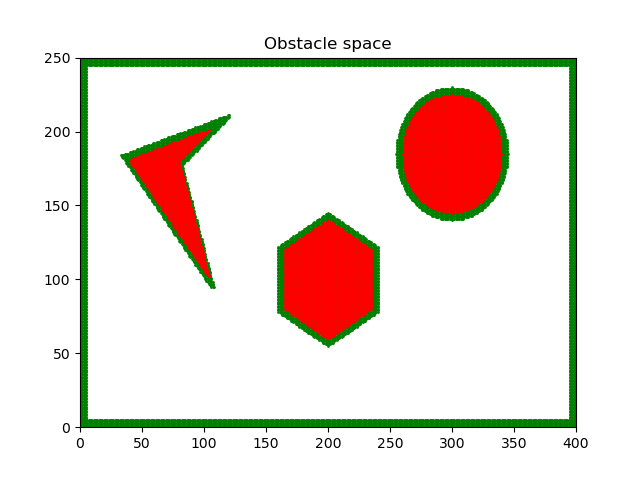
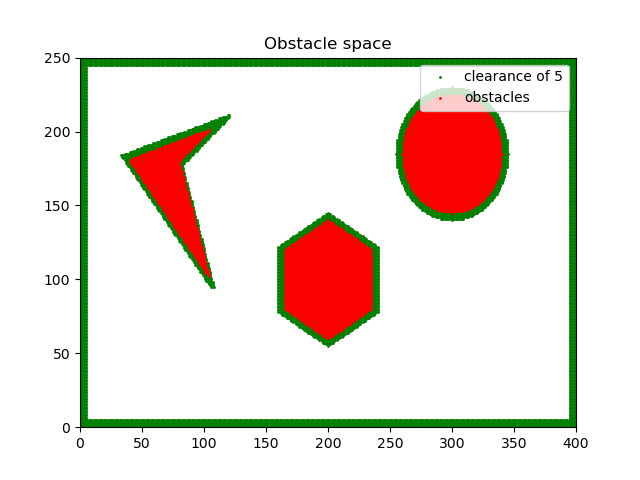
latest commit

Changed region(s): [[0.6562, 0.125, 0.9062, 0.25]]

diff --git a/Dijkstra-pathplanning-Saurabh-Palande.py b/Dijkstra-pathplanning-Saurabh-Palande.py
@@ -202,7 +202,9 @@ def create_obstacles():
     plt.scatter(oc[:,0], oc[:,1], c = 'g', s= 1, label = 'clearance of 5')
     plt.scatter(o[:,0], o[:,1], c = 'r', s =1, label = 'obstacles')
     plt.title('Obstacle space')
+    plt.legend(loc='upper right')
     plt.savefig('Obstacle_space.png')
+    plt.close()
     #plt.show()
 
     
